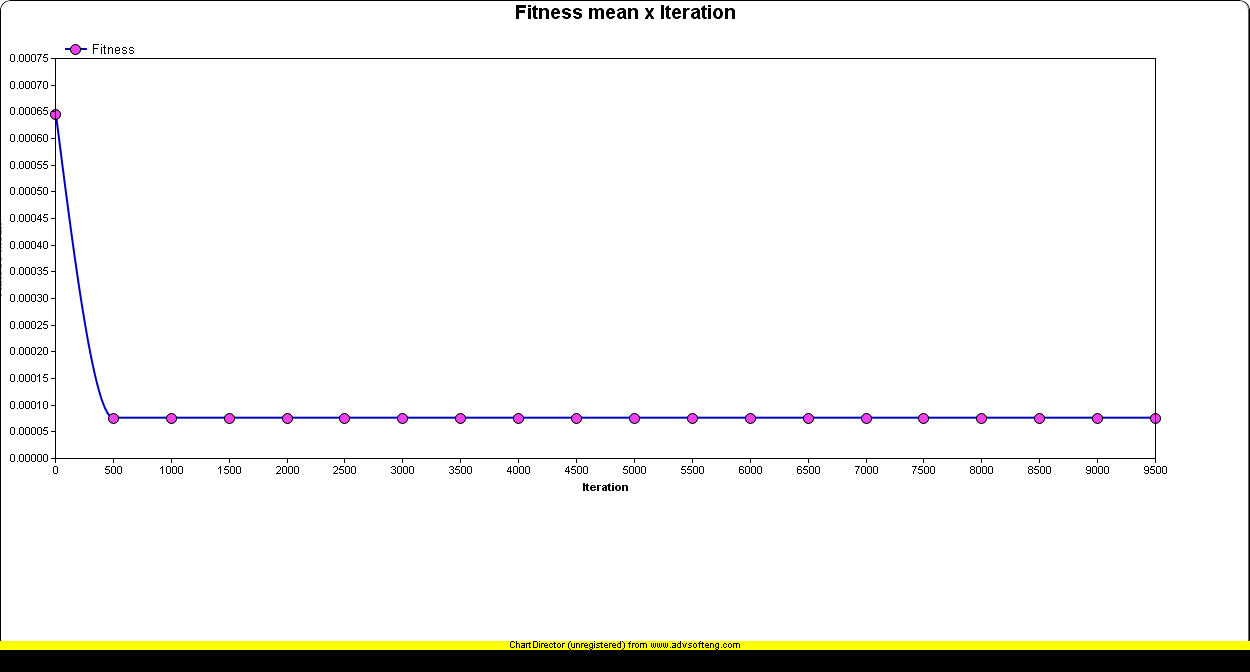
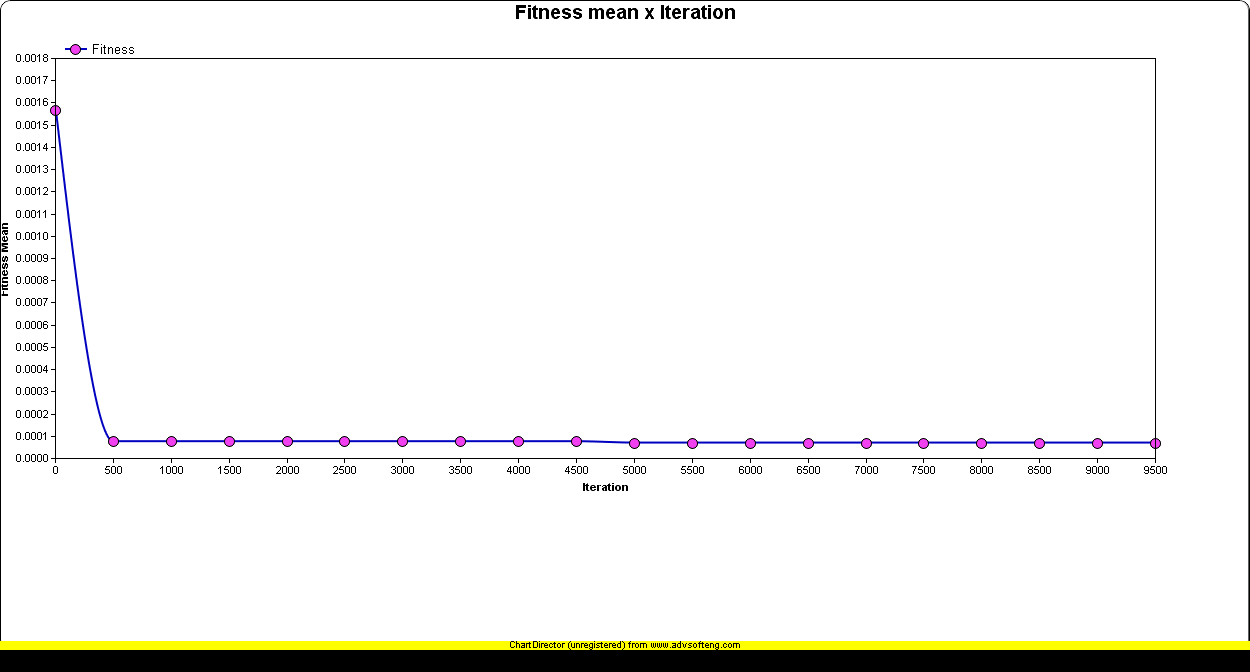
ADD TODO

diff --git a/src/br/poli/gp/Parametros.java b/src/br/poli/gp/Parametros.java
@@ -4,28 +4,28 @@ public class Parametros {
 	
 	// Configuracao experimento
 	public static final int NUMERO_TOTAL_SIMULACAO = 1;
-	public static final int NUMERO_TOTAL_ITERACAO = 10000;
+	public static final int NUMERO_TOTAL_ITERACAO = 6000;
 	public static final int ITERACAO_BREAK = 500;
 	public static String TIPO_DE_OTIMIZACAO = "MINIMIZACAO";
 	
 	// Bases
 	//public static final String Base = "ibm"; 
 	//public static final String Base = "sunspot"; 
-	// public static final String Base = "stock"; OK
+	//public static final String Base = "stock"; 
 	//public static final String Base = "redwine"; 
 	//public static final String Base = "accidentalDeathUSA"; OK
 	//public static final String Base = "airlines"; OK
 	//public static final String Base = "coloradoRiver"; OK
 	//public static final String Base = "dowJones"; OK
-	public static final String Base = "electricity"; 
+	//public static final String Base = "electricity"; 
 	//public static final String Base = "lakeerie"; OK
-	//public static final String Base = "lynx"; 
+	public static final String Base = "lynx"; 
 	//public static final String Base = "nsw"; OK
 	//public static final String Base = "pollution";
 		
 	// Configuracao arvore
 	public static final int TAMANHO_MAXIMO_PROFUNDIDADE_ARVORE = 8;
-	public static final int NUMERO_TOTAL_FUNCAO = 8;
+	public static final int NUMERO_TOTAL_FUNCAO = 10;
 	public static final int NUMERO_TOTAL_VARIAVEL = 2; //(TAMANHO DA JANELA)
 	public static final int NUMERO_MAXIMO_POLPULACAO = 5;
 	public static final double CHANCE_CRIACAO_VARIAVEL = 0.5d; 
@@ -50,7 +50,7 @@ public class Parametros {
 	
 	public static final int HILL_CLIMBING_MAX_ITERACAO = 10;
 	public static final int NUMERO_MAXIMO_VARIAVEL = 10;
-	public static final int ESTRATEGIA_EVOLUCAO_ITERACAO = 200;
+	public static final int ESTRATEGIA_EVOLUCAO_ITERACAO = 400;
 	public static final double TAXA_VALIDACAO = 0.30;
 	public static final boolean ESTRATEGIA_EVOLUCAO_TODOS = false;
 	

diff --git a/src/br/poli/gp/AlgoritmoGP.java b/src/br/poli/gp/AlgoritmoGP.java
@@ -116,8 +116,8 @@ public class AlgoritmoGP {
 
 	private void showBothExpression() throws IOException {
 		// The labels for the chart
-		String[] labels = new String[serieTemporal.size()-(this.tamanhoJanela)];
-		for (int i = 0; i < serieTemporal.size()-(this.tamanhoJanela); i++) {
+		String[] labels = new String[validarBase];
+		for (int i = 0; i < labels.length; i++) {
 			labels[i] = Integer.toString((i));
 		}
 
@@ -156,14 +156,14 @@ public class AlgoritmoGP {
 
 	private void calcularFitnessIndividuoFinal(Individuo i) {
 		HashMap<String, Double> hm = new HashMap<String, Double>();
-		this.serie = new double[serieTemporal.size()-(this.tamanhoJanela)];
-		this.previsto = new double[serieTemporal.size()-(this.tamanhoJanela)];
+		this.serie = new double[validarBase];
+		this.previsto = new double[validarBase];
 		for (int numeroJanela = 0; numeroJanela < this.tamanhoJanela; numeroJanela++) {
 			hm.put("X"+numeroJanela, 0d);
 		}
 		double fitness = 0.0;
 		int all = 0;
-		for(int walk = 0; walk < (serieTemporal.size()-(this.tamanhoJanela)); walk++){
+		for(int walk = serieTemporal.size()-(this.tamanhoJanela)-validarBase; walk < (serieTemporal.size()-(this.tamanhoJanela)); walk++){
 			int aux = 0;
 			for (int numeroJanela = 0; numeroJanela < this.tamanhoJanela; numeroJanela++) {
 				hm.replace("X"+numeroJanela, serieTemporal.get(walk+aux));

diff --git a/src/br/poli/gp/util/SplineLineChart.java b/src/br/poli/gp/util/SplineLineChart.java
@@ -107,12 +107,10 @@ public class SplineLineChart implements DemoModule
     	layer.setLineWidth(2);
     	//Add a data set to the spline layer, using blue (0000c0) as the line color, with yellow (ffff00)
     	//circle symbols.
-    	layer.addDataSet(dataY1, 0x0000c0, "Target Group");
-    	//.setDataSymbol(Chart.LinePointer, 10,0xffff00);
+    	layer.addDataSet(dataY1, 0x0000c0, "Target Group").setDataSymbol(Chart.TriangleSymbol, 10,0xffff00);
     	//Add a data set to the spline layer, using brown (982810) as the line color, with pink (f040f0)
     	//diamond symbols.
-    	layer.addDataSet(dataY0, 0x982810, "Calculated Group");
-    	//.setDataSymbol(Chart.LinePointer, 11, 0xf040f0);
+    	layer.addDataSet(dataY0, 0x982810, "Calculated Group").setDataSymbol(Chart.CircleSymbol, 11, 0xf040f0);
         
     	// Output the chart
         viewer.setChart(c);
